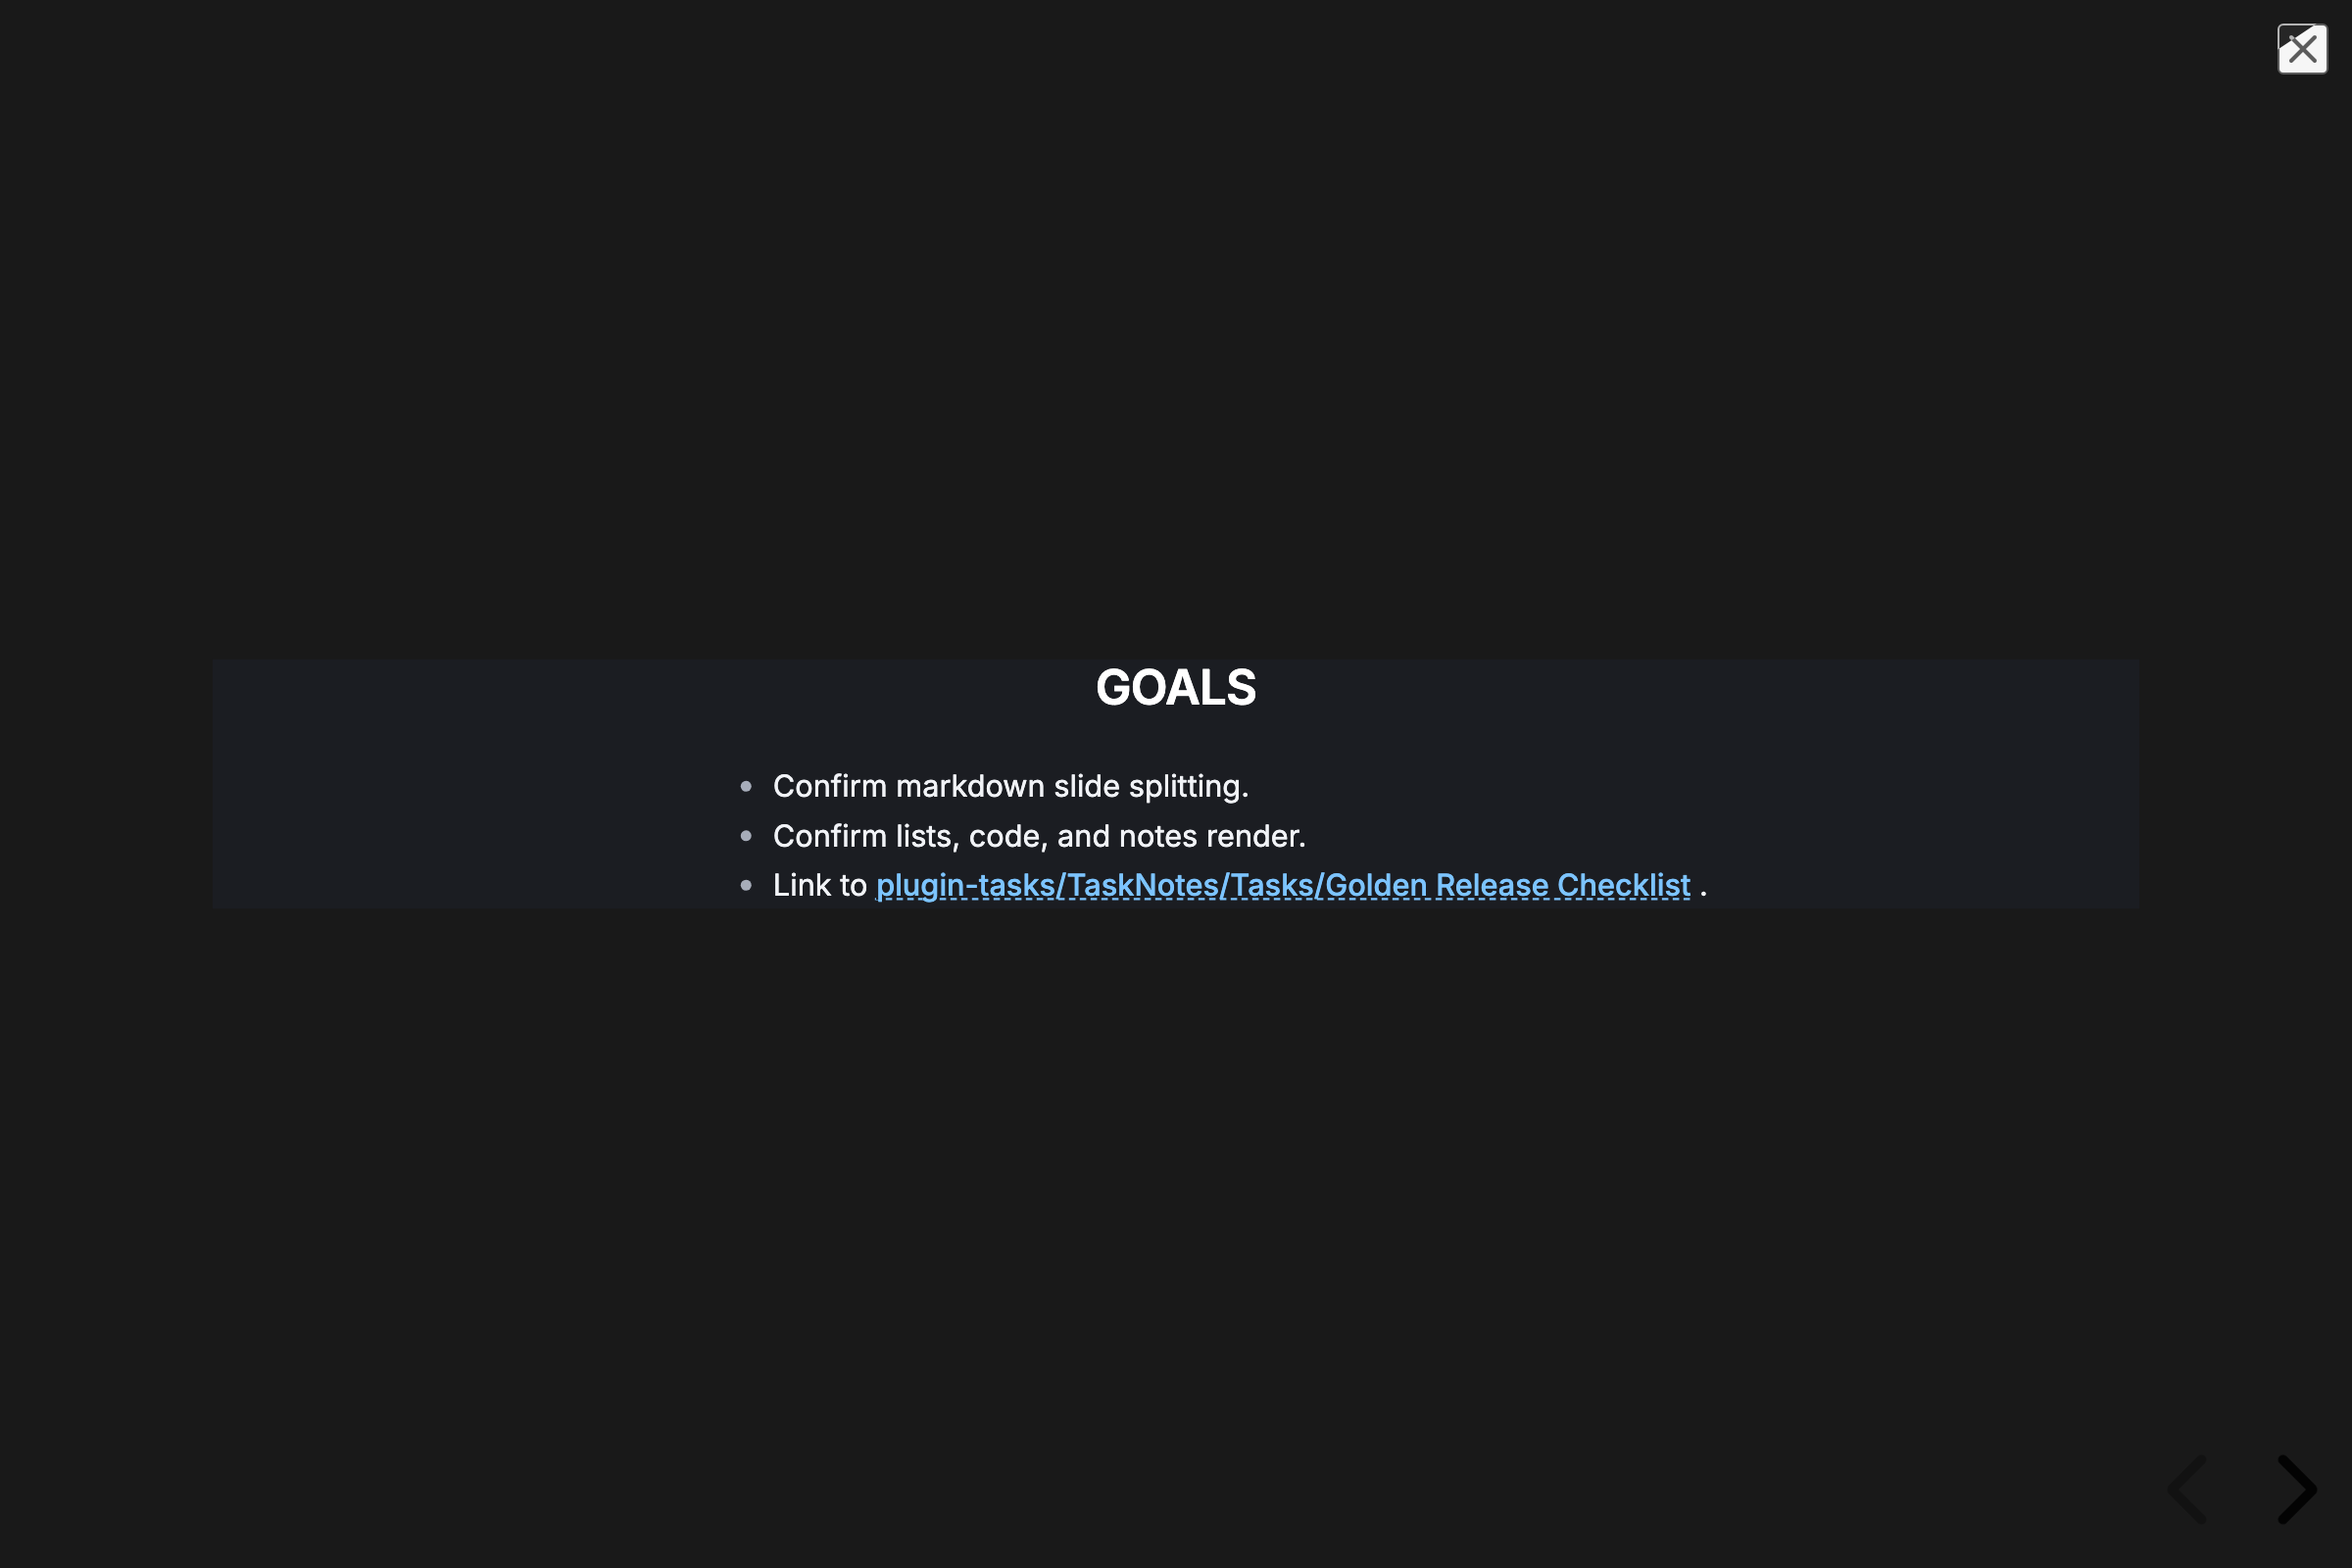
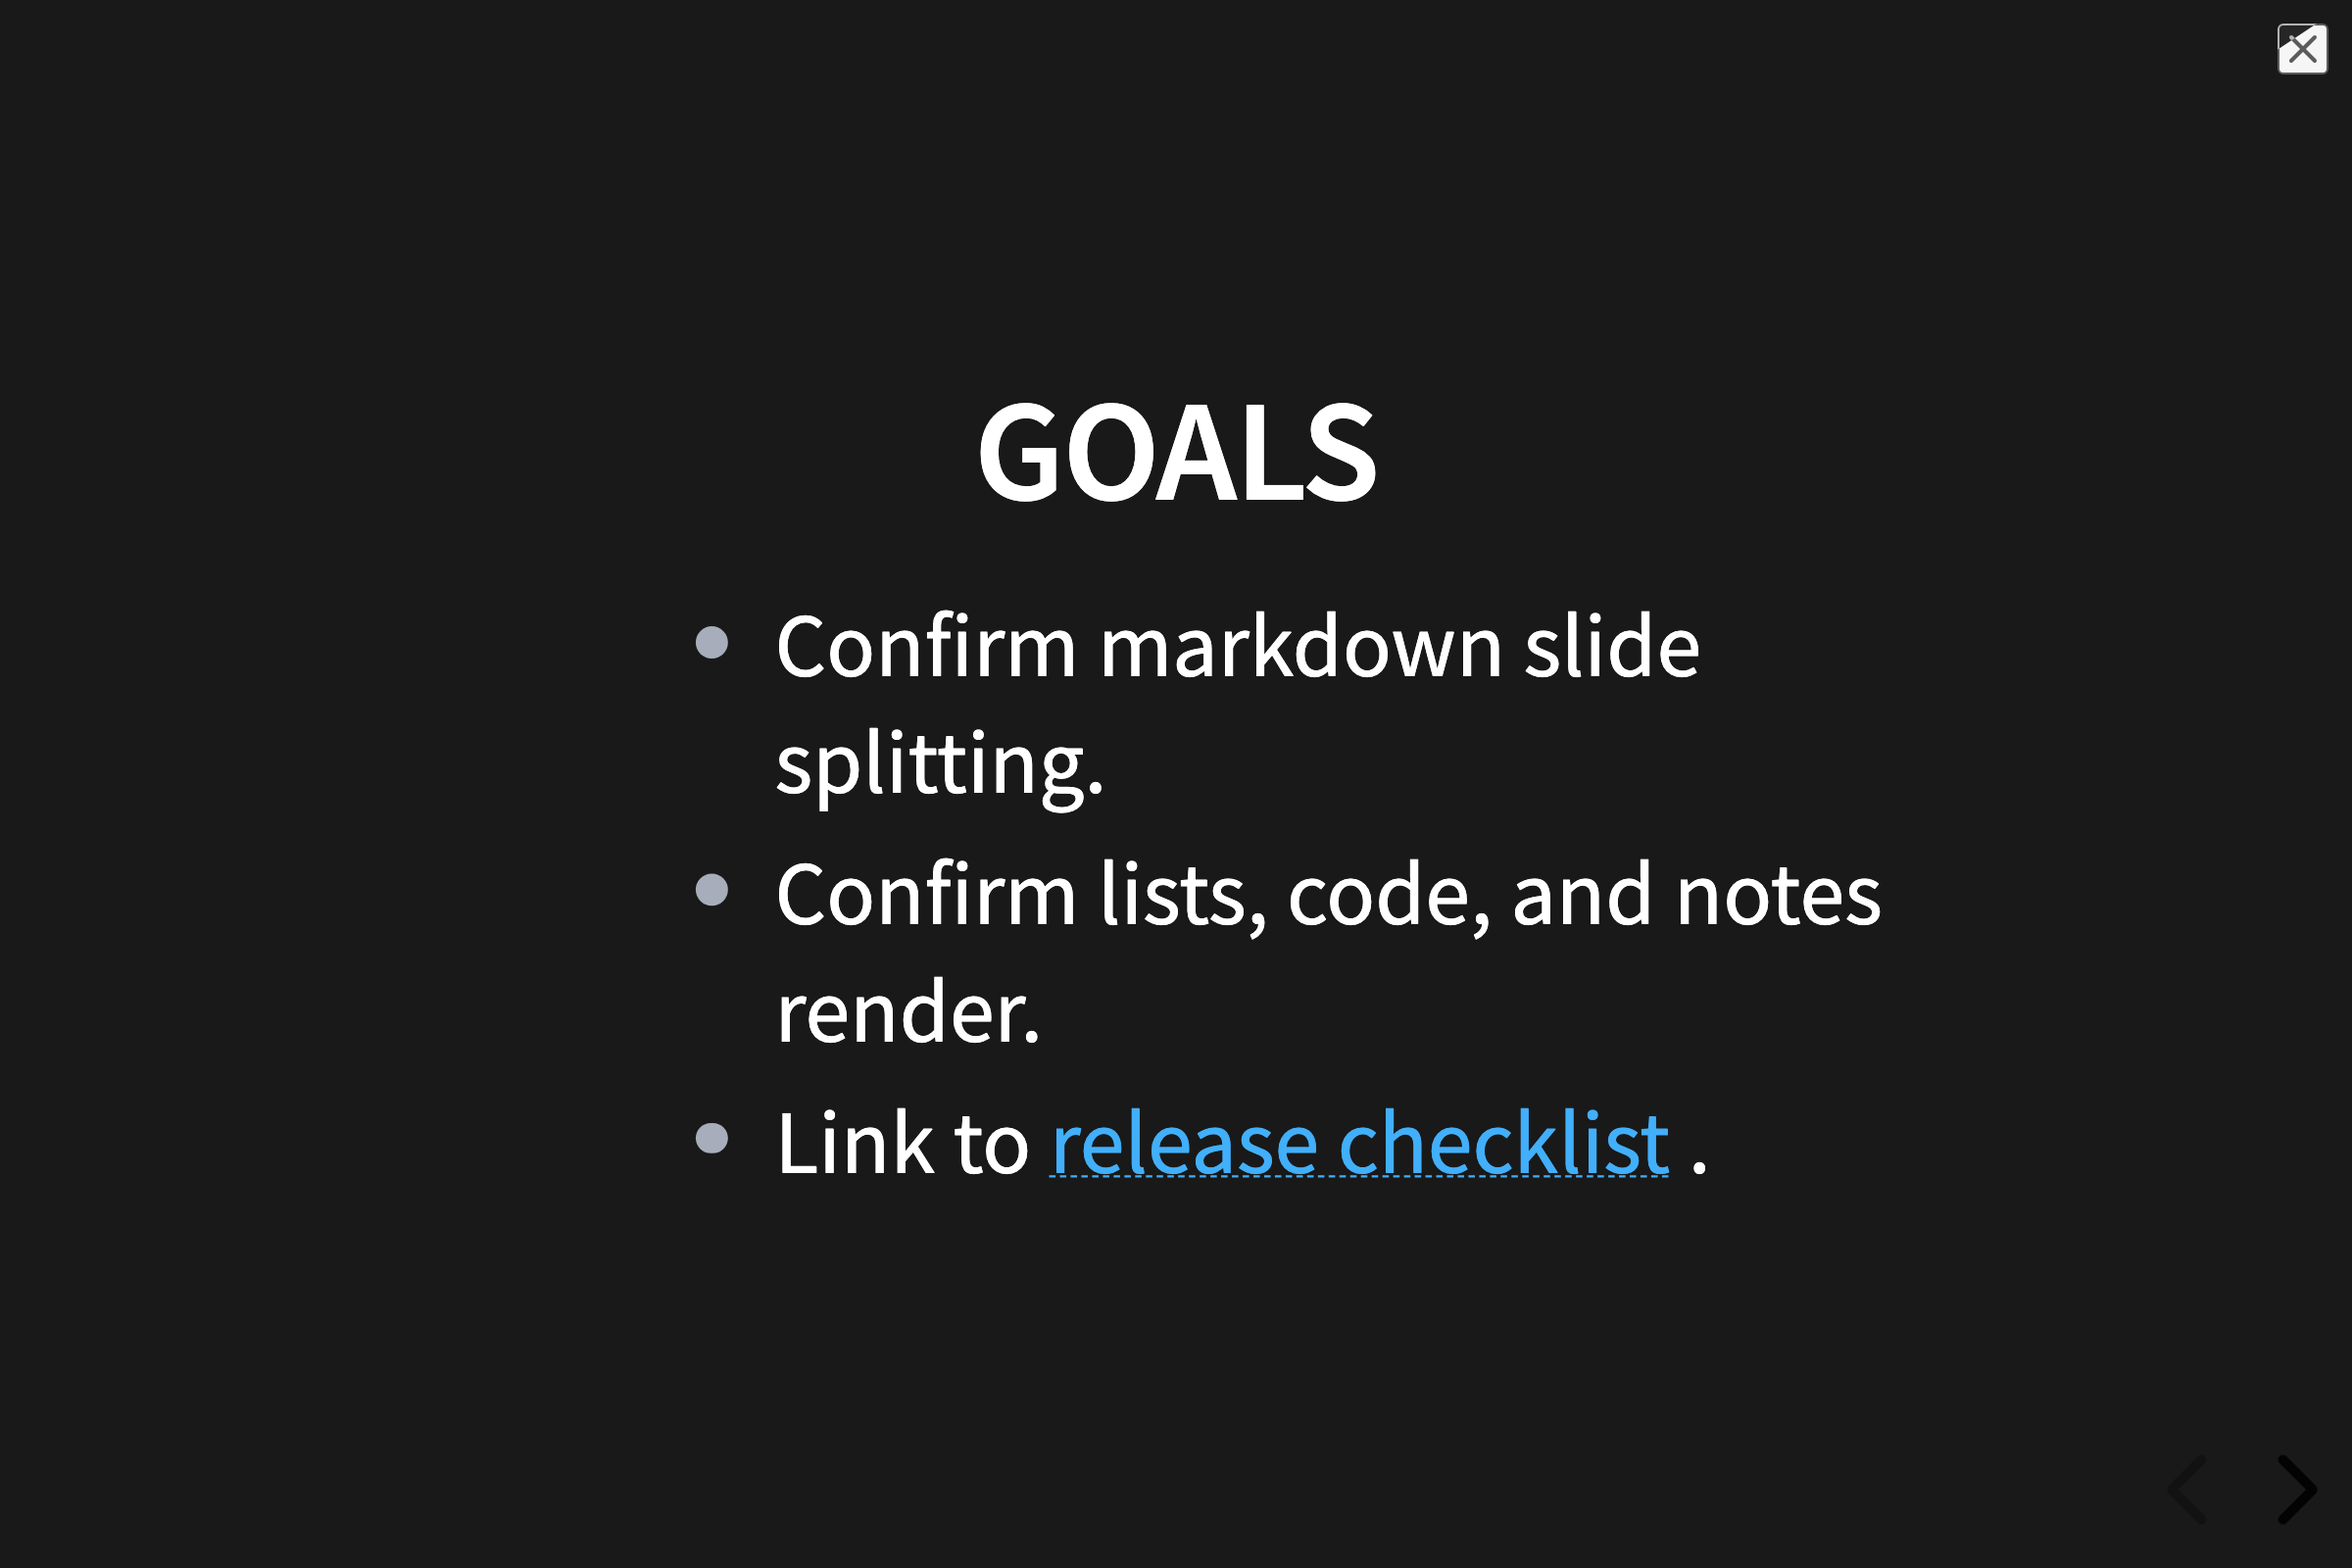
fix(slides): restore presentation-scale registry media

diff --git a/packages/slides/src/lib/views/slides/slides.css b/packages/slides/src/lib/views/slides/slides.css
@@ -241,6 +241,42 @@
   flex-direction: column;
   gap: 0;
   padding: 0 2rem;
+  --mira-preview-background: transparent;
+  --mira-foreground: var(--r-main-color);
+  --mira-link: var(--r-link-color);
+  --mira-font-sans: var(--r-main-font);
+  --mira-markdown-font-size: var(--r-main-font-size);
+  --mira-markdown-line-height: 1.3;
+  --mira-h1-color: var(--r-main-color);
+  --mira-h2-color: var(--r-main-color);
+  --mira-h3-color: var(--r-main-color);
+  --mira-h4-color: var(--r-main-color);
+  --mira-h5-color: var(--r-main-color);
+  --mira-h6-color: var(--r-main-color);
+  --mira-h1-font: var(--r-heading-font);
+  --mira-h2-font: var(--r-heading-font);
+  --mira-h3-font: var(--r-heading-font);
+  --mira-h4-font: var(--r-heading-font);
+  --mira-h5-font: var(--r-heading-font);
+  --mira-h6-font: var(--r-heading-font);
+  --mira-h1-size: var(--r-heading1-size);
+  --mira-h2-size: var(--r-heading2-size);
+  --mira-h3-size: var(--r-heading3-size);
+  --mira-h4-size: var(--r-heading4-size);
+  --mira-h5-size: var(--r-heading4-size);
+  --mira-h6-size: var(--r-heading4-size);
+  --mira-h1-line-height: var(--r-heading-line-height);
+  --mira-h2-line-height: var(--r-heading-line-height);
+  --mira-h3-line-height: var(--r-heading-line-height);
+  --mira-h4-line-height: var(--r-heading-line-height);
+  --mira-h5-line-height: var(--r-heading-line-height);
+  --mira-h6-line-height: var(--r-heading-line-height);
+  --mira-h1-weight: var(--r-heading-font-weight);
+  --mira-h2-weight: var(--r-heading-font-weight);
+  --mira-h3-weight: var(--r-heading-font-weight);
+  --mira-h4-weight: var(--r-heading-font-weight);
+  --mira-h5-weight: var(--r-heading-font-weight);
+  --mira-h6-weight: var(--r-heading-font-weight);
 }
 
 .slides-view .slides-markdown h1,

diff --git a/stories/plugins/slides/RegistryScreenshots.stories.ts b/stories/plugins/slides/RegistryScreenshots.stories.ts
@@ -65,15 +65,27 @@ export const Presentation: Story = {
     next.click();
 
     await waitFor(() => {
-      expect(
-        deckCanvas.getByRole("heading", { level: 2, name: "Goals" })
-      ).toBeVisible();
-      expect(
-        deckCanvas.getByText("Confirm markdown slide splitting.")
-      ).toBeVisible();
+      const heading = deckCanvas.getByRole("heading", {
+        level: 2,
+        name: "Goals",
+      });
+      const firstGoal = deckCanvas.getByText(
+        "Confirm markdown slide splitting."
+      );
+      expect(heading).toBeVisible();
+      expect(firstGoal).toBeVisible();
       expect(
         deckCanvas.getByText("Confirm lists, code, and notes render.")
       ).toBeVisible();
+      expect(
+        Number.parseFloat(getComputedStyle(heading).fontSize)
+      ).toBeGreaterThan(56);
+      expect(
+        Number.parseFloat(getComputedStyle(firstGoal).fontSize)
+      ).toBeGreaterThan(36);
+      const embed = heading.closest<HTMLElement>(".markdown-preview-surface");
+      expect(embed).not.toBeNull();
+      expect(getComputedStyle(embed!).backgroundColor).toBe("rgba(0, 0, 0, 0)");
     });
 
     await new Promise((resolve) => setTimeout(resolve, 300));

diff --git a/spec/src/plugins/slides/index.md b/spec/src/plugins/slides/index.md
@@ -3,9 +3,10 @@
 `@lapis-notes/slides` owns presentation mode for Markdown notes. The migration
 starts from legacy revision `8ec68e18`, preserves the rendered overlay, Reveal
 surface, recursive section markup, close-button SVG, semantic class names, and
-authored CSS, and adapts only repository structure, public imports, explicit
-application ownership, current lifecycle behavior, packaging, and non-visual
-acceptance attributes.
+authored CSS, and adapts repository structure, public imports, explicit
+application ownership, current lifecycle behavior, packaging, non-visual
+acceptance attributes, and the scoped token bridge required for the public
+Markdown embed to inherit Reveal typography and its transparent slide surface.
 
 The package is portable across web and desktop hosts. Markdown remains the
 authoritative source: Slides opens a separate file-backed view over the active
@@ -17,10 +18,10 @@ the explicit source leaf when the presentation closes.
 | ID            | Requirement |
 | ------------- | ----------- |
 | LN-SLIDES-001 | Slides MUST live at `packages/slides` as `@lapis-notes/slides@0.1.0`, retain runtime id `lapis-slides`, view type `slides`, command id `start-presentation`, and migration provenance revision `8ec68e18`. The legacy source and its separate release history MUST remain unchanged. |
-| LN-SLIDES-002 | The migrated presentation MUST preserve the legacy overlay, view and section DOM, recursive horizontal and vertical tree, semantic class names, close-button SVG, Source Sans Pro imports, Reveal variables, and authored CSS declarations. Adaptation MAY add only non-visual accessibility or test attributes to that markup. |
+| LN-SLIDES-002 | The migrated presentation MUST preserve the legacy overlay, view and section DOM, recursive horizontal and vertical tree, semantic class names, close-button SVG, Source Sans Pro imports, Reveal variables, and authored CSS declarations. Adaptation MAY add non-visual accessibility or test attributes to that markup and a Slides-scoped Markdown token bridge; it MUST NOT restyle the application outside the presentation. |
 | LN-SLIDES-003 | Blank-line `---` separators MUST start horizontal slides and blank-line `----` separators MUST create vertical children. Separators without the surrounding blank lines MUST remain Markdown content. Empty input MUST remain a valid one-slide deck. |
 | LN-SLIDES-004 | A leading YAML front matter block MUST configure Reveal through the fail-safe YAML schema. Missing, scalar, array, or malformed configuration MUST fall back without throwing; malformed YAML MUST leave the original Markdown available to render. |
-| LN-SLIDES-005 | Slides MUST preserve `notes:` and case-insensitive `note:` or `notes:` speaker-note labels, callout-style `>[!note]:` and `>[!notes]:` notes, `.element` attributes on the preceding element, and `.slide:` attributes on the owning section. Slide and note bodies MUST render through `@lapis-notes/markdown/embed` with syntax highlighting disabled. |
+| LN-SLIDES-005 | Slides MUST preserve `notes:` and case-insensitive `note:` or `notes:` speaker-note labels, callout-style `>[!note]:` and `>[!notes]:` notes, `.element` attributes on the preceding element, and `.slide:` attributes on the owning section. Slide and note bodies MUST render through `@lapis-notes/markdown/embed` with syntax highlighting disabled, inherit Reveal's main and heading typography, and keep the embedded Markdown surface transparent. |
 | LN-SLIDES-006 | The plugin MUST register `Start presentation` as both the `lapis-slides:start-presentation` command and a Markdown view-menu action. The menu action MUST use its owning Markdown leaf; the command MUST use the active leaf. A missing leaf or non-Markdown file MUST produce the legacy notice and MUST NOT open a presentation. |
 | LN-SLIDES-007 | Starting a valid presentation MUST create and activate a new tab, set file-backed Slides state with the Markdown path and explicit source-leaf id, retain workspace history, and request layout persistence. Closing through the visible X or Escape MUST close the Slides leaf and reactivate that explicit source leaf, with a sibling or active-leaf fallback only when it no longer exists. |
 | LN-SLIDES-008 | The view MUST track live editor changes. Every content or configuration update MUST synchronize and lay out Reveal, then restore its prior horizontal, vertical, and fragment indices. The deck MUST retain focus after initialization and use embedded, focused-keyboard Reveal behavior. |

diff --git a/spec/src/verification.md b/spec/src/verification.md
@@ -487,10 +487,10 @@ and records repository-level extraction and release gates.
 | LN-SRCH-049 | design-core, search-plugin | Implemented | Design Core portals CodeMirror completion tooltips into the owner document at a compact wrapping width; all six governed real Search-panel placements verify the portal escapes the panel, stays viewport-contained, uses the normalized width, wraps row content, and remains topmost through option-centre hit-testing. |
 | LN-SRCH-050 | api, search-plugin, graph-plugin | Implemented | API unit tests verify the shared canonical field catalog and parser-safe values; Search and Graph focused checks and Storybook autocomplete acceptance consume the same factory and public Design Core input. |
 | LN-SLIDES-001 | plugins/slides/index | Implemented | package catalog, manifest, public exports, and migration provenance record the 0.1.0 Slides identity from legacy revision 8ec68e18. |
-| LN-SLIDES-002 | plugins/slides/index | Implemented | migrated Svelte markup and authored Slides CSS retain the legacy overlay, recursive section tree, semantic classes, inline close SVG, Reveal variables, and Source Sans Pro imports. |
+| LN-SLIDES-002 | plugins/slides/index | Implemented | migrated Svelte markup and authored Slides CSS retain the legacy overlay, recursive section tree, semantic classes, inline close SVG, Reveal variables, and Source Sans Pro imports; the governed story verifies the scoped public-Markdown token bridge does not collapse presentation typography. |
 | LN-SLIDES-003 | plugins/slides/index | Implemented | parser unit tests cover blank-line horizontal and vertical separators, non-separators, nested trees, and empty input. |
 | LN-SLIDES-004 | plugins/slides/index | Implemented | parser unit tests cover valid front matter plus missing, non-object, and malformed fail-safe YAML fallback. |
-| LN-SLIDES-005 | plugins/slides/index | Implemented | parser and component tests cover both speaker-note forms, element and slide attributes, and public MarkdownEmbed rendering. |
+| LN-SLIDES-005 | plugins/slides/index | Implemented | parser and component tests cover both speaker-note forms, element and slide attributes, and public MarkdownEmbed rendering; Storybook asserts Reveal-scale body and heading type over a transparent embed surface. |
 | LN-SLIDES-006 | plugins/slides/index | Implemented | plugin tests cover command and Markdown menu registration, owning-leaf selection, and missing or non-Markdown notices. |
 | LN-SLIDES-007 | plugins/slides/index | Implemented | plugin and view tests plus signed Web acceptance cover new-tab state, explicit source identity, close, source reveal, and layout persistence. |
 | LN-SLIDES-008 | plugins/slides/index | Implemented | component tests and signed Web acceptance cover live editor refresh, Reveal layout, and horizontal, vertical, and fragment index retention. |

diff --git a/packages/slides/test/fixtures/release-walkthrough.md b/packages/slides/test/fixtures/release-walkthrough.md
@@ -14,7 +14,7 @@ Use the Slides plugin to present this markdown deck.
 
 - Confirm markdown slide splitting.
 - Confirm lists, code, and notes render.
-- Link to [[plugin-tasks/TaskNotes/Tasks/Golden Release Checklist]].
+- Link to [[plugin-tasks/TaskNotes/Tasks/Golden Release Checklist|release checklist]].
 
 Note: Speaker note for the goals slide.
 
